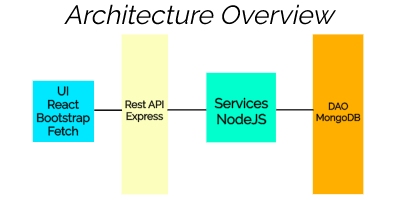
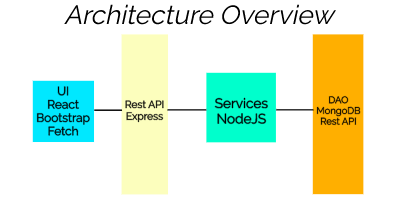
Updated readme and arach image

diff --git a/README.md b/README.md
@@ -11,7 +11,7 @@ All middleware and data layers are built using proven design patterns.
 
 UI - React, Bootstrap, Fetch, Webpack
 
-API/Backend - Nodejs, Express, MongoDb
+API/Backend - Nodejs, Express, MongoDb, External Weather REST API
 
 ## Tools used:
 
